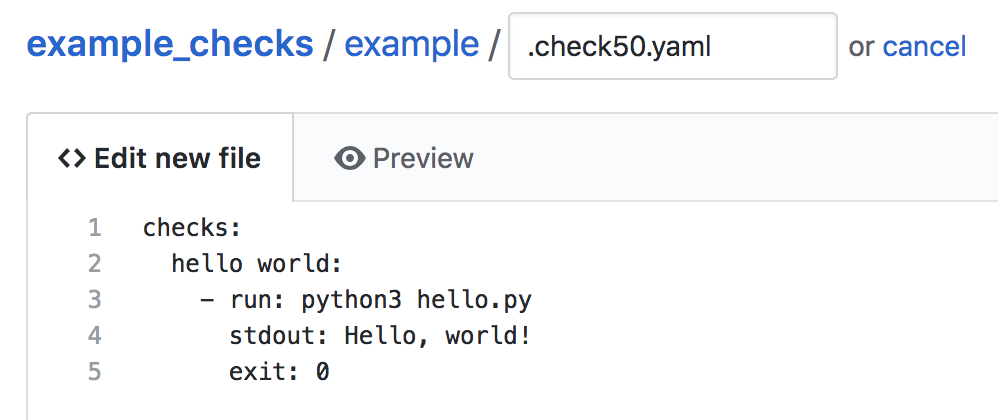
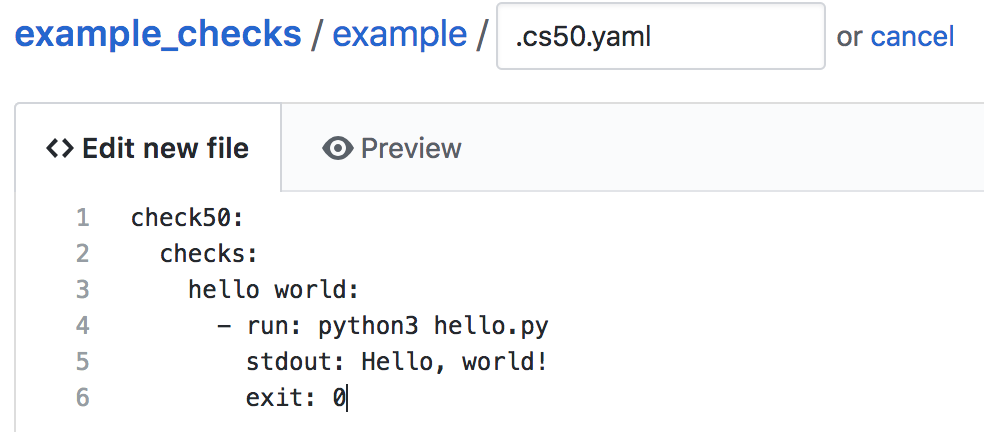
update check_writer

diff --git a/docs/source/check_writer.rst b/docs/source/check_writer.rst
@@ -2,3 +2,395 @@
 
 Writing check50 checks
 ======================
+
+check50 checks live in a git repo on Github. check50 finds the git repo based on the slug that is passed to check50. For instance, consider the following execution of check50:
+
+.. code-block:: bash
+
+    check50 cs50/problems/2018/x/hello
+
+check50 will look for an owner called `cs50`, a repo called `problems`, a branch called `2018` or `2018/x` and a problem called `x/hello` or `hello`. The slug is thus parsed like so:
+
+.. code-block:: bash
+
+    check50 <owner>/<repo>/<branch>/<problem>
+
+Creating a git repo
+*******************
+
+To get you started, the first thing you need to do is |register_github|. Once you have done so, or if you already have an account with Github, |create_repo|. Make sure to think of a good name for your repo, as this is what students will be typing. Also make sure your repo is set to public, it is initialised with a `README`, and finally add a Python `.gitignore`. Ultimately you should have something looking like this:
+
+.. |register_github| raw:: html
+
+   <a href="https://github.com/join" target="_blank">register with Github</a>
+
+.. |create_repo| raw:: html
+
+   <a href="https://github.com/new" target="_blank">create a new git repo</a>
+
+.. image:: img/repo.png
+
+Creating a check and running it
+*******************************
+
+Your new repo should live at ``https://github.com/<user>/<repo>``, that is ``https://github.com/cs50/example_checks`` in our example. Once you have created your new repo, create a new file by clicking the `Create new file` button:
+
+.. image:: img/new_file.png
+
+Then continue by creating the following `.cs50.yaml` file. All indentation is done by 2 spaces, as per YAML syntax.
+
+.. image:: img/new_yaml.png
+
+Or in text, if you want to quickly copy-paste:
+
+.. code-block:: yaml
+    :linenos:
+
+    check50:
+      checks:
+        hello world:
+          - run: python3 hello.py
+            stdout: Hello, world!
+            exit: 0
+
+Note that you should create a directory like in the example above by typing: `example/.cs50.yaml`. Once you have populated the file with the code above. Scroll down the page and hit the commit button:
+
+.. image:: img/commit.png
+
+That's it! You know have a repo that check50 can use to check whether a python file called `hello.py` prints ``Hello, world!`` and exits with a ``0`` as exit code. To try it, simply execute:
+
+.. code-block:: bash
+
+    check50 <owner>/<repo>/master/example --local
+
+Where you substitute `<owner>` for your own username, `<repo>` for the repo you've just created. Given that a file called `hello.py` is in your current working directory, and it actually prints ``Hello, world!`` when run, you should now see the following:
+
+.. code-block:: bash
+
+    :) hello world
+
+Simple YAML checks
+******************
+
+To get you started, and to cover the basics of input/output checking, check50 lets you write simple checks in YAML syntax. Under the hood, check50 compiles these YAML checks to Python checks that check50 then runs.
+
+YAML checks in check50 all live in `.cs50.yaml` and start with a top-level key called ``check50``, that specifies a ``checks``. The ``checks`` record contains all checks, where the name of the check is the name of the YAML record. Like so:
+
+.. code-block:: yaml
+    :linenos:
+
+    check50:
+      checks:
+        hello world: # define a check named hello world
+          # check code
+        foo: # define a check named foo
+          # check code
+        bar: # define a check named bar
+          # check code
+
+
+This code snippet defines three checks, named ``hello world``, ``foo`` and ``bar`` respectively. These checks should contain a list of ``run`` records, that can each contain a combination of ``stdin``, ``stdout`` and ``exit``. See below:
+
+.. code-block:: yaml
+    :linenos:
+
+    check50:
+      checks:
+        hello world:
+          - run: python3 hello.py # run python3 hello.py
+            stdout: Hello, world! # expect Hello, world! in stdout
+            exit: 0 # expect program to exit with exitcode 0
+        foo:
+          - run: python3 foo.py # run python3 foo.py
+            stdin: baz # insert baz into stdin
+            stdout: baz # expect baz in stdout
+            exit: 0 # expect program to exit with exitcode 0
+        bar:
+          - run: python3 bar.py # run python3 bar.py
+            stdin: baz # insert baz into stdin
+            stdout: bar baz # expect bar baz in stdout
+          - run: python3 bar.py # run python3 bar.py
+            stdin:
+              - baz # insert baz into stdin
+              - qux # insert qux into stdin
+            stdout:
+              - bar baz # first expect bar baz in stdout
+              - bar qux # then expect bar qux in stdout
+
+The code snippet above again defines three checks: `hello world`, `foo` and `bar`.
+
+The ``hello world`` check runs ``python3 hello.py`` in the terminal, expects ``Hello, world!`` to be outputted in stdout, and then expects the program to exit with exitcode ``0``.
+
+The ``foo`` check runs ``python3 foo.py`` in the terminal, inserts ``baz`` into stdin, expects ``baz`` to be outputted in stdout, and finally expects the program to exit with exitcode ``0``.
+
+The ``bar`` check runs two commands in order in the terminal. First ``python3 bar.py`` gets run, ``baz`` gets put in stdin and ``bar baz`` is expected in stdout. There is no mention of ``exit`` here, so the exitcode is not checked. Secondly, ``python3 bar.py`` gets run, ``baz`` and ``qux`` get put into stdin, and first ``bar baz`` is expected in stdout, then ``bar qux``.
+
+We encourage you to play around with the example above by copying its code to your checks git repo. Then try to write a `bar.py` and `foo.py` that make you pass these tests.
+
+In case you want to check for multiline input, you can make use of YAML's ``|`` operator like so:
+
+.. code-block:: yaml
+    :linenos:
+
+    checks:
+      multiline hello world:
+        - run: python3 multi_hello.py
+          stdout: | # expect Hello\nWorld!\n in stdout
+            Hello
+            World!
+          exit: 0
+
+Developing locally
+******************
+
+To write checks on your own machine, rather than on the Github webpage, you can clone the repo via:
+
+.. code-block:: bash
+
+    git clone https://github.com/<owner>/<repo>
+
+Where ``<owner>`` is your Github username, and ``<repo>`` is the name of your checks repository. Head on over to the new directory that git just created, and open up `.cs50.yaml` with your favorite editor.
+
+To run the cloned checks locally, check50 comes with a ``--dev`` mode. That will let you target a local checks repo, rather than a github repo. So if your checks live in ``/Users/cs50/Documents/example_checks``, you would execute check50 like so:
+
+.. code-block:: bash
+
+    check50 --dev /Users/cs50/Documents/example_checks/example
+
+This runs the `example` check from ``/Users/cs50/Documents/example_checks``. You can also specify a relative path, so if your current working directory is ``/Users/cs50/Documents/solutions``, you can execute check50 like so:
+
+.. code-block:: bash
+
+    check50 --dev ../example_checks/example
+
+Now you're all set to develop new checks locally. Just remember to ``git add``, ``git commit`` and ``git push`` when you're done writing checks. Quick refresher:
+
+.. code-block:: bash
+
+    git add .cs50.yaml
+    git commit -m "wrote some awesome new checks!"
+    git push
+
+Getting started with Python checks
+**********************************
+
+If you need a little more than strict input / output testing, check50 lets you write checks in Python. A good starting point is the result of the compilation of the YAML checks. To get these, please make sure you have cloned the repo (via ``git clone`` ), and thus have the checks locally. First we need to run the .YAML checks once, so that check50 compiles the checks to Python. To do this execute:
+
+.. code-block:: bash
+
+    check50 --dev <checks_dir>/<check>
+
+Where ``<checks_dir>`` is the local git repo of your checks, and ``<check>`` is the directory in which ``.cs50.yaml`` lives. Alternatively you could navigate to this directory and simply call:
+
+.. code-block:: bash
+
+    check50 --dev .
+
+As a result you should now find a file called ``__init__.py`` in the check directory. This is the result of check50's compilation from YAML to Python. For instance, if your ``.cs50.yaml`` contains the following:
+
+.. code-block:: yaml
+    :linenos:
+
+    check50:
+      checks:
+        hello world:
+          - run: python3 hello.py
+            stdout: Hello, world!
+            exit: 0
+
+You should now find the following ``__init__.py``:
+
+.. code-block:: python
+    :linenos:
+
+    import check50
+
+    @check50.check()
+    def hello_world():
+        """hello world"""
+        check50.run("python3 hello.py").stdout("Hello, world!", regex=False).exit(0)
+
+check50 will by default ignore and overwrite what is in ``__init__.py`` for as long as there are checks in ``.cs50.yaml``. To change this you have to edit ``.cs50.yaml`` to:
+
+.. code-block:: yaml
+    check50:
+      checks: __init__.py
+
+By doing so you are effectively telling check50 to look in ``__init__.py`` for checks. If you want, you can rename ``__init__.py`` to anything else, as long as you tell check50 where to look via ``.cs50.yaml``. To test whether everything is still in working order, run check50 again with:
+
+.. code-block:: bash
+
+    check50 --dev <checks_dir>/<check>
+
+You should see the same results as the YAML checks gave you. Now that there are no YAML checks in ``.cs50.yaml`` and check50 knows where to look for Python checks, you can start writing Python checks. You can find documentation in :ref:`api`, and examples of Python checks below.
+
+Python check specification
+**************************
+
+A Python check is made up as follows:
+
+.. code-block:: Python
+    :linenos:
+
+    import check50 # import the check50 module
+
+    @check50.check() # tag the function below as check50 check
+    def exists(): # the name of the check
+        """description""" # this is what you will see when running check50
+        check50.exists("hello.py") # the actual check
+
+    @check50.check(exists) # only run this check if the exists check has passed
+    def prints_hello():
+        """prints "hello, world\\n" """
+        check50.run("python3 hello.py").stdout("[Hh]ello, world!?\n", regex=True).exit(0)
+
+check50 uses its check decorator to tag functions as checks. You can pass another check as argument to specify a dependency. Docstrings are used as check descriptions, this is what will ultimately be shown when running check50. The checks themselves are just Python code. check50 comes with a simple API to run programs, send input to stdin, and check or retrieve output from stdout. A check fails if a ``check50.Failure`` exception or an exception inheriting from ``check50.Failure`` like ``check50.Mismatch`` is thrown. This allows you to write your own custom check code like so:
+
+.. code-block:: Python
+    :linenos:
+
+    import check50
+
+    @check50.check()
+    def prints_hello():
+        """prints "hello, world\\n" """
+        from re import match
+
+        expected = "[Hh]ello, world!?\n"
+        actual = check50.run("python3 hello.py").stdout()
+        if not match(expected, actual):
+            help = None
+            if match(expected[:-1], actual):
+                help = r"did you forget a newline ('\n') at the end of your printf string?"
+            raise check50.Mismatch("hello, world\n", actual, help=help)
+
+The above check breaks out of check50's API by calling ``stdout()`` on line 9 with no args, effectively retrieving all output from stdout in a string. Then there is some plain Python code, matching the output through Python's builtin regex module ``re`` against a regular expression with the expected outcome. If it doesn't match, a help message is provided only if there is a newline missing at the end. This help message is provided through an optional argument ``help`` passed to check50's ``Mismatch`` exception.
+
+You can share state between checks if you make them dependent on each other. By default file state is shared, allowing you to for instance test compilation in one check, and then depend on the result of the compilation in dependent checks.
+
+.. code-block:: Python
+    :linenos:
+
+    import check50
+    import check50.c
+
+    @check50.check()
+    def compiles():
+        """hello.c compiles"""
+        check50.c.compile("hello.c")
+
+    @check50.check(compiles)
+    def prints_hello():
+        """prints "hello, world\\n" """
+        check50.run("./hello").stdout("[Hh]ello, world!?\n", regex=True).exit(0)
+
+You can also share Python state between checks by returning what you want to share from a check. It's dependent can accept this by accepting an additional argument.
+
+.. code-block:: Python
+    :linenos:
+
+    import check50
+
+    @check50.check()
+    def foo():
+        return 1
+
+    @check50.check(foo)
+    def bar(state)
+        print(state) # prints 1
+
+Python check examples
+*********************
+
+Below you will find examples of Python checks. Don't forget to |cs50_checks| for more examples. You can try them yourself by copying them to ``__init__.py`` and running:
+
+.. |cs50_checks| raw:: html
+
+   <a href="https://github.com/cs50/problems" target="_blank">checkout CS50's own checks</a>
+
+.. code-block:: bash
+
+    check50 --dev <checks_dir>/<check>
+
+Check whether a file exists:
+
+.. code-block:: python
+    :linenos:
+
+    import check50
+
+    @check50.check()
+    def exists():
+        """hello.py exists"""
+        check50.exists("hello.py")
+
+Check stdout for an exact string:
+
+.. code-block:: python
+    :linenos:
+
+    @check50.check(exists)
+    def prints_hello_world():
+        """prints Hello, world!"""
+        check50.run("python3 hello.py").stdout("Hello, world!", regex=False).exit(0)
+
+Check stdout for a rough match:
+
+.. code-block:: python
+    :linenos:
+
+    @check50.check(exists)
+    def prints_hello():
+        """prints "hello, world\\n" """
+        # regex=True by default :)
+        check50.run("python3 hello.py").stdout("[Hh]ello, world!?\n").exit(0)
+
+Put something in stdin, expect it in stdout:
+
+.. code-block:: python
+    :linenos:
+
+    import check50
+
+    @check50.check()
+    def id():
+        """id.py prints what you give it"""
+        check50.run("python3 hello.py").stdin("foo").stdout("foo").stdin("bar").stdout("bar")
+
+Be helpful, check for common mistakes:
+
+.. code-block:: python
+    :linenos:
+
+    import check50
+    import re
+
+    def coins(num):
+        # regex that matches `num` not surrounded by any other numbers
+        # (so coins(2) won't match e.g. 123)
+        return fr"(?<!\d){num}(?!\d)"
+
+    @check50.check()
+    def test420():
+        """input of 4.2 yields output of 18"""
+        expected = "18\n"
+        actual = check50.run("python3 cash.py").stdin("4.2").stdout()
+        if not re.search(coins(18), actual):
+            help = None
+            if re.search(coins(22), actual):
+                help = "did you forget to round your input to the nearest cent?"
+            raise check50.Mismatch(expected, actual, help=help)
+
+Create your own assertions:
+
+.. code-block:: python
+    :linenos:
+
+    import check50
+
+    @check50.check()
+    def atleast_one_match()
+        """matches either foo, bar or baz"""
+        output = check50.run("python3 qux.py").stdout()
+        if not any(answer in output for answer in ["foo", "bar", "baz"]):
+            raise check50.Failure("no match found")
